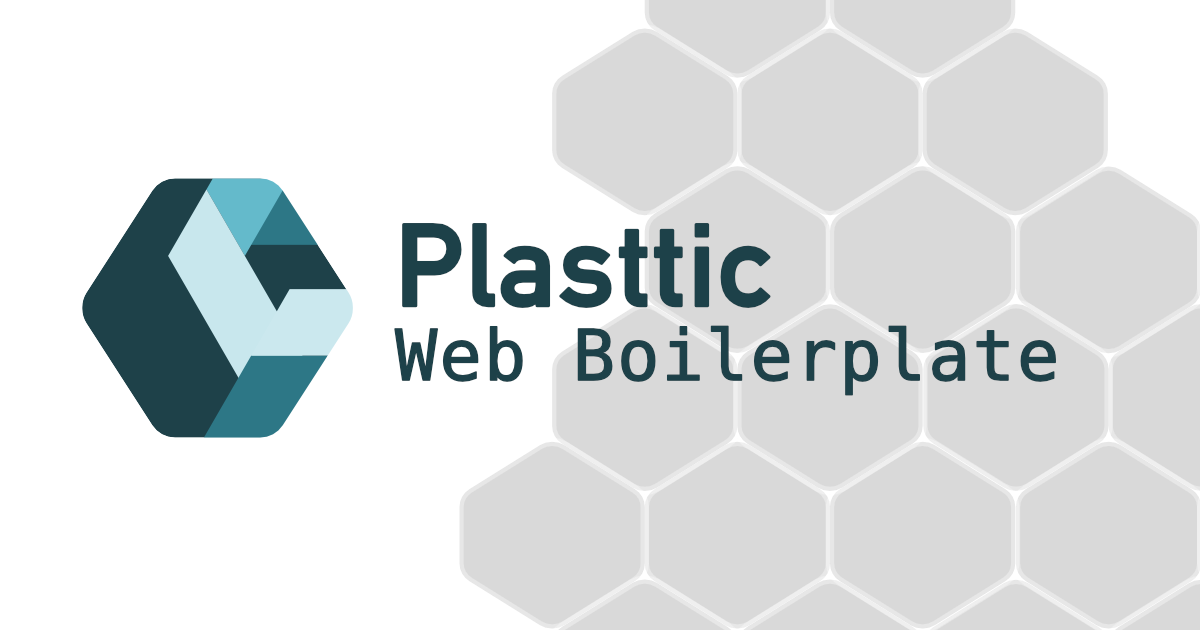
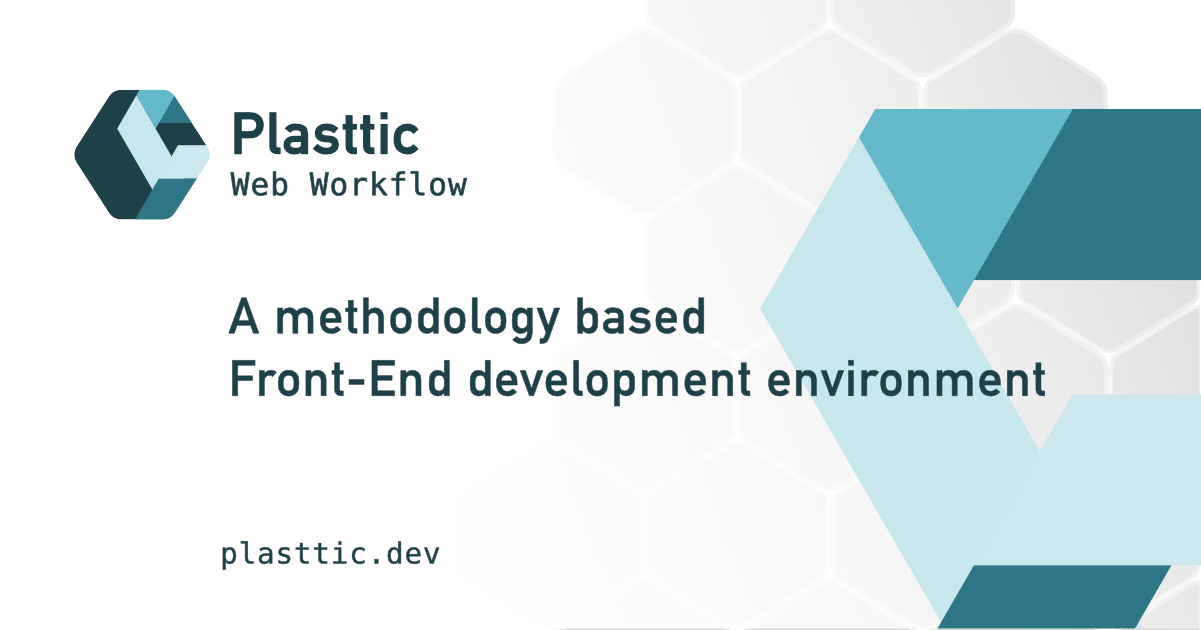
v1.2.7: update

diff --git a/public/index.html b/public/index.html
@@ -64,7 +64,7 @@ https://www.w3schools.com/tags/ref_language_codes.asp
       name="og:image"
       content="https://plasttic.dev/social-banner-1200_630.png"
     />
-    <meta name="og:image:alt" content="Plasttic logo banner" />
+    <meta name="og:image:alt" content="Plasttic Web Workflow" />
     <meta property="og:image:width" content="1200" />
     <meta property="og:image:height" content="630" />
     <meta property="og:image:type" content="image/png" />
@@ -74,8 +74,8 @@ https://www.w3schools.com/tags/ref_language_codes.asp
     https://developer.twitter.com/en/docs/twitter-for-websites/cards/guides/getting-started#opengraph
     Most information is provided by the Open Graph meta tags
     -->
-    <meta name="twitter:card" content="summary_large_image" />
     <meta name="twitter:site" content="@tojeiro_me" />
+    <meta name="twitter:card" content="summary_large_image" />
 
     <!-- TODO: About the author of the website -->
     <link rel="author" href="/humans.txt" />
